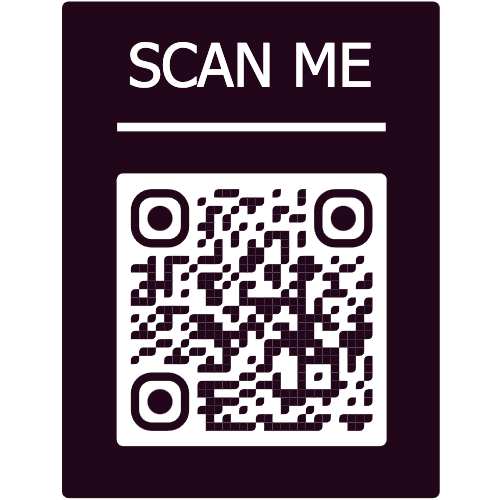
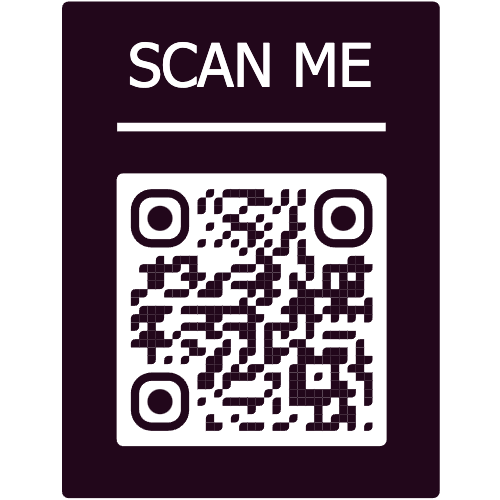
lundi17mars20h57

Changed region(s): [[0.24, 0.36, 0.75, 0.87]]

diff --git a/src/pages/HomeFile/Home.js b/src/pages/HomeFile/Home.js
@@ -4,6 +4,7 @@ import { Link } from "react-router-dom";
 import styles from "./Home.module.css";
 import ScrollToTop from "../../components/ScrollToTop";
 import BackButton from "../../components/BackButton";
+import QrCode from "../../assets/QrCode/site-painting.png";
 
 const Home = () => {
   return (
@@ -26,7 +27,9 @@ const Home = () => {
             </Link>
           </div>
         </div>
-
+        <div className={styles.QrCode}>
+          <img src={QrCode} alt="QR Code" />
+        </div>
         <p>Frederic Guerin</p>
         <div className={styles.MailLink}>
           <a href="mailto:fguerin555@gmail.com">fguerin555@gmail.com</a>

diff --git a/src/pages/HomeFile/Home.module.css b/src/pages/HomeFile/Home.module.css
@@ -27,7 +27,7 @@
 
 .QrCode img {
   margin-top: 20px;
-  height: 100px;
+  height: 150px;
   width: auto;
 }
 
@@ -87,6 +87,11 @@
 
   .WorksButton button {
     font-size: 20px;
+  }
+  .QrCode img {
+    margin-top: 20px;
+    height: 100px;
+    width: auto;
   }
 }
 
